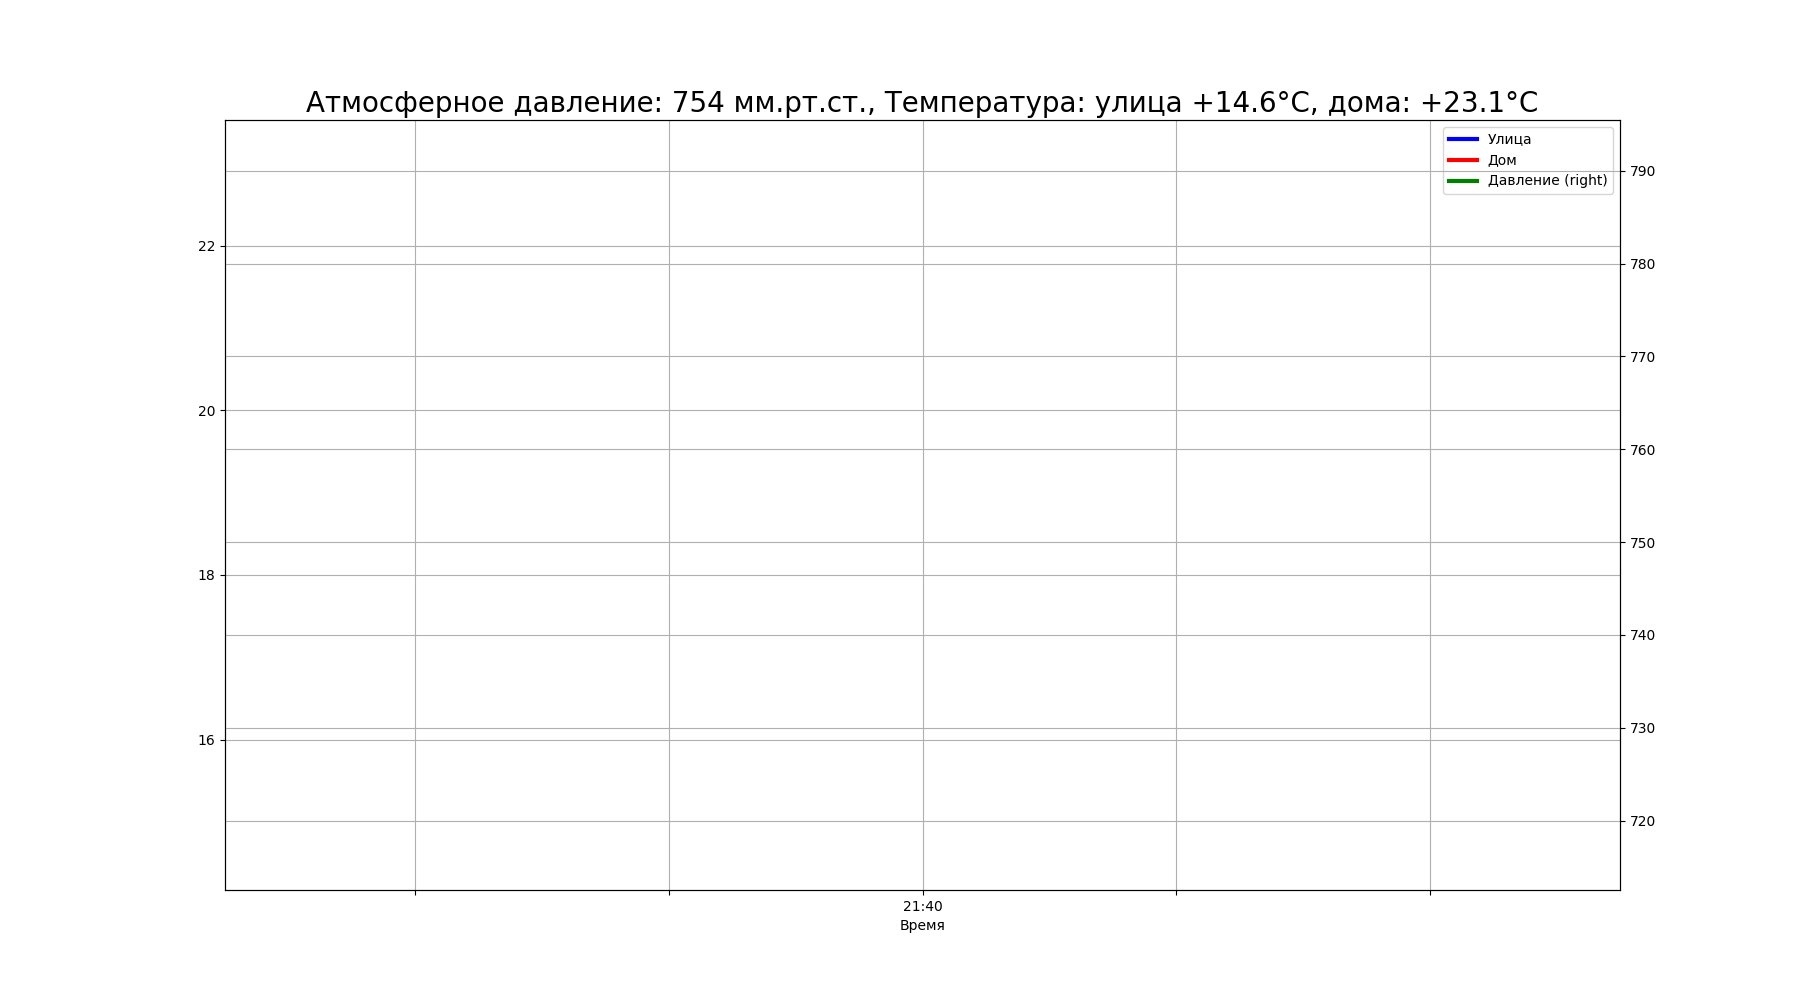
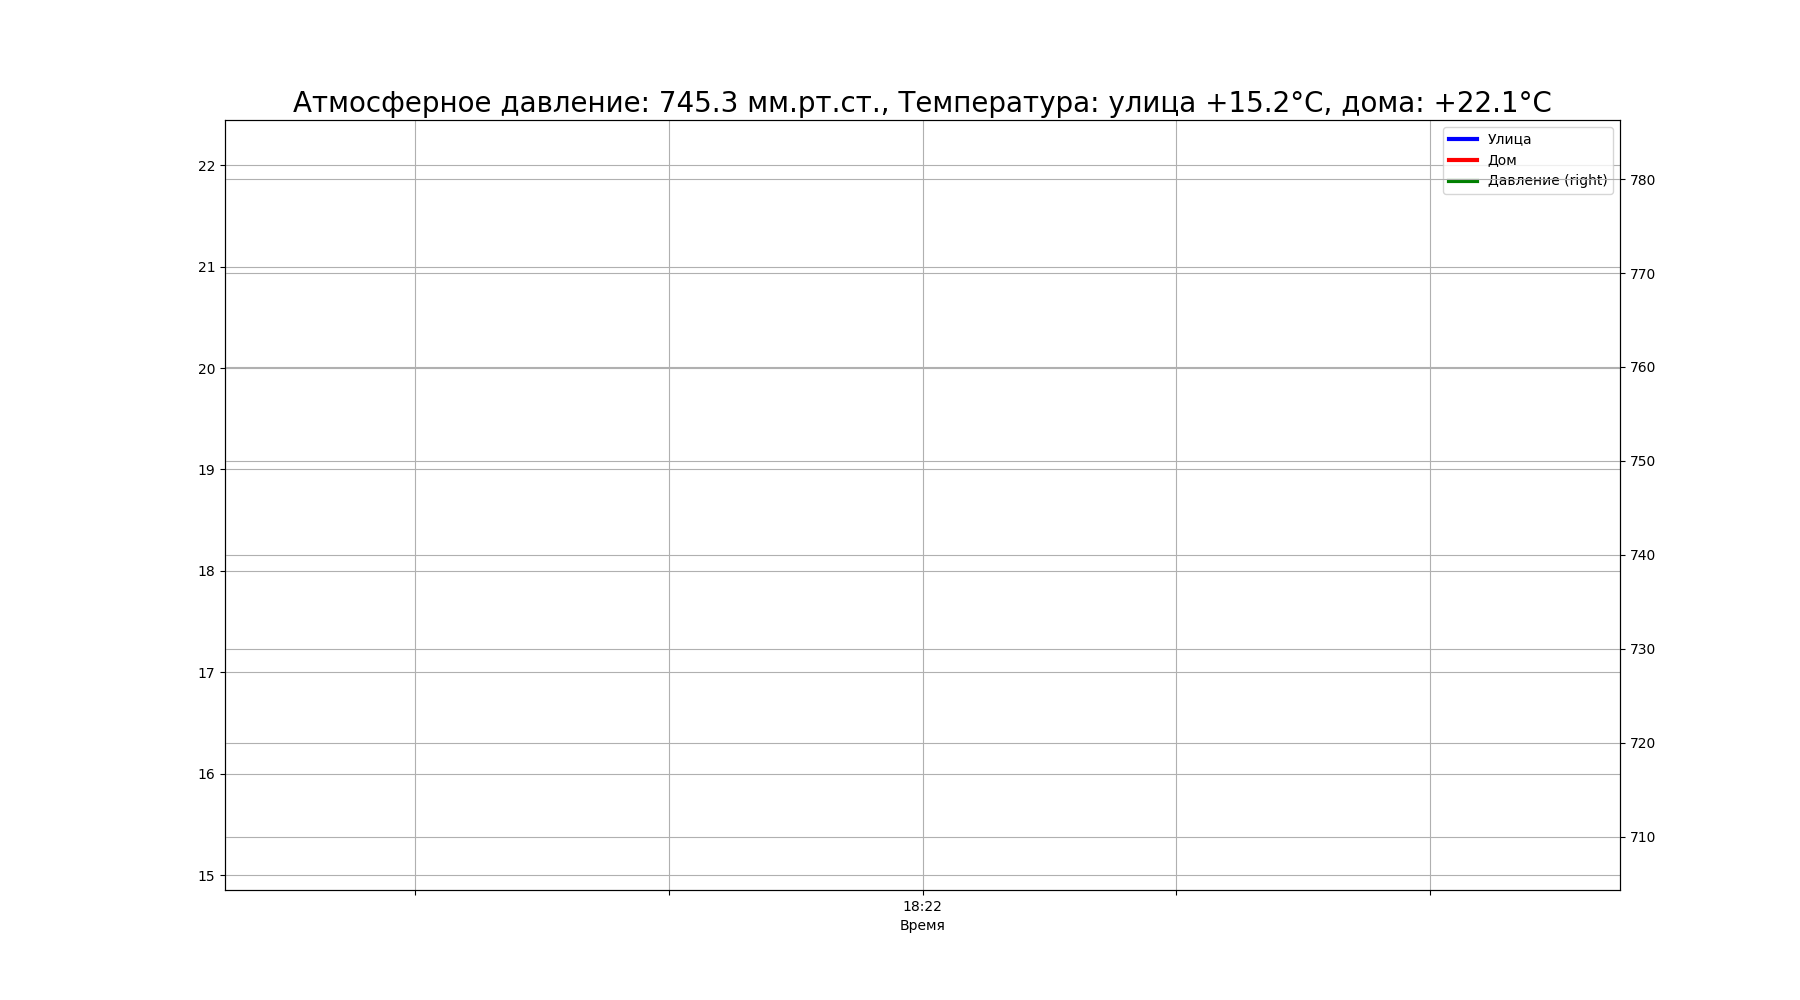
Изменил дискретность отображения данных на графике по давлению и температуре

diff --git a/updater2.py b/updater2.py
@@ -46,7 +46,7 @@ def update_data():  # Функция для обновления данных
             sens_t_ul = round(float(zapros_sensor(url_1, 1)), 1) # Получаем данные с сенсора во временную переменную
             print(type(sens_t_ul))
             sens_t_kv = round(float(zapros_sensor(url_2, 6)), 1)  # Получаем данные с сенсора во временную переменную
-            sens_pressure = int(float(zapros_sensor(url_2, 4)))  # Получаем данные с сенсора во временную переменную
+            sens_pressure = round(float(zapros_sensor(url_2, 4)), 1)  # Получаем данные с сенсора во временную переменную
             temp.append(
                 sens_t_ul if sens_t_ul != 888888 else temp[-1])  # Добавляем значение полученное из сенсора в массив
             temp_k.append(
@@ -60,7 +60,7 @@ def update_data():  # Функция для обновления данных
             check_len_data(
                 time_get)  # Проверяем длину массива и удаляем первый элемент если он больше нужного количества
             print(
-                f'Обновлено в {time_get[-1]}: {temp[-1]}, {temp_k[-1]}, {pressure[-1]}')  # Выводим время последнего обновления
+                f'Обновлено в {time_get[-1]}: {temp[-1]}, {temp_k[-1]}, {int(pressure[-1])}')  # Выводим время последнего обновления
             df = pd.DataFrame(
                 {'Время': time_get, 'Улица': temp, 'Дом': temp_k, 'Давление': pressure})  # Создаем датафрейм
             plt.figure(1, figsize=(20, 15), dpi=80)  # Создаем график и задаем размеры его по ширине и высоте
